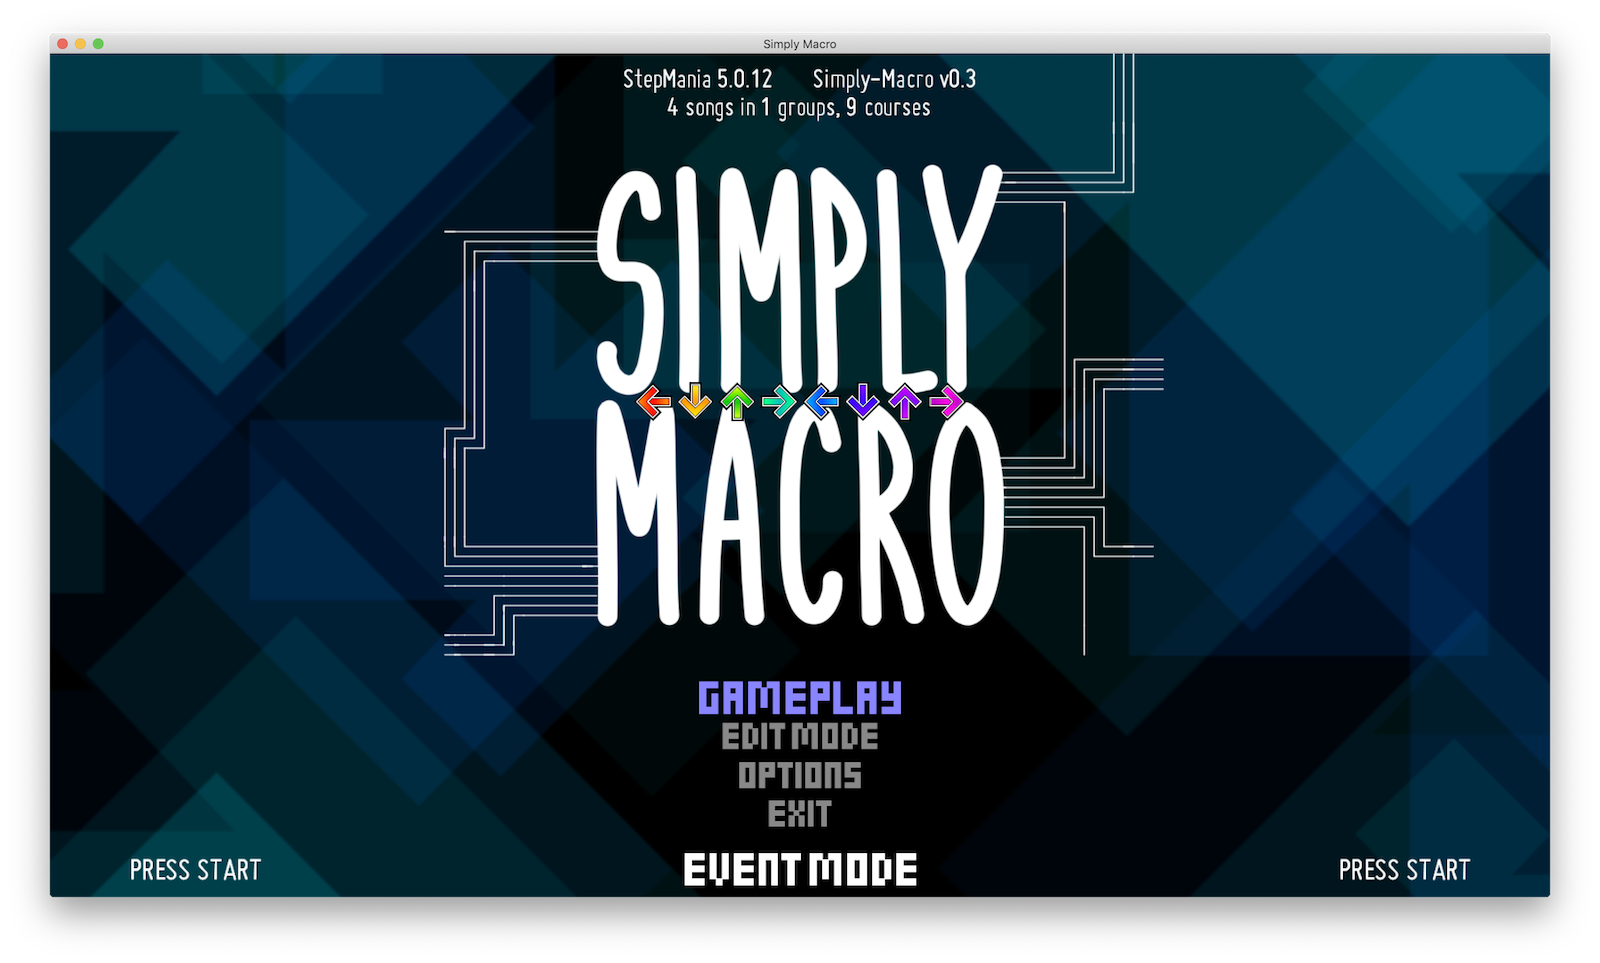
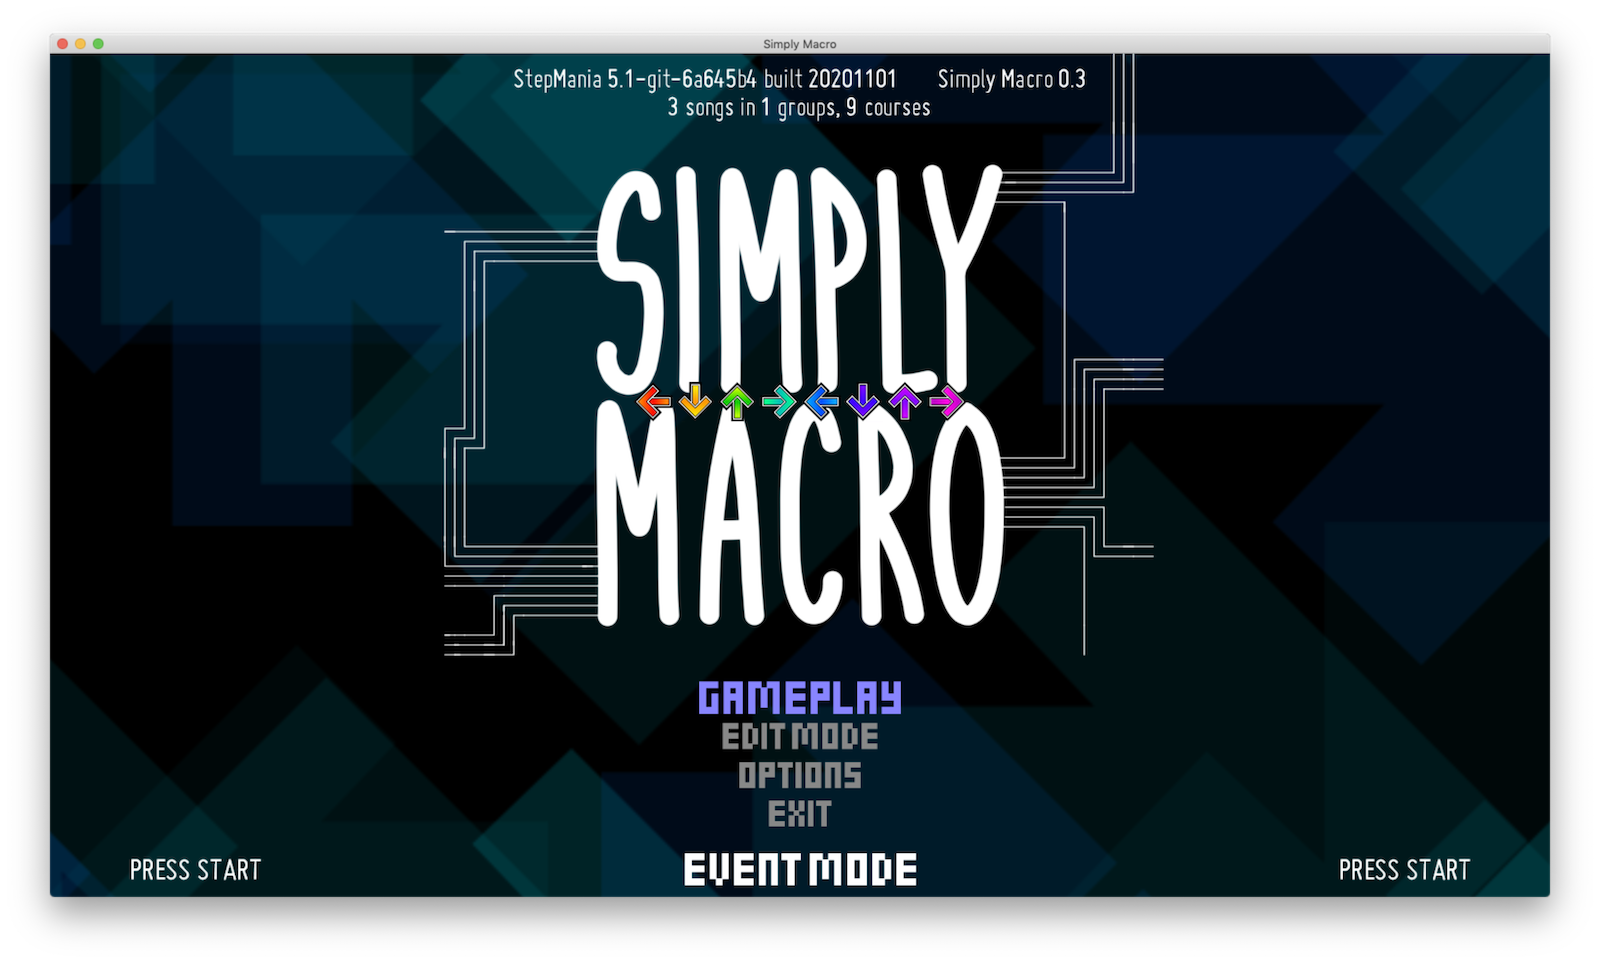
Added option for turning Decents/WayOffs on/off by default; cleanup

diff --git a/README.md b/README.md
@@ -22,14 +22,14 @@ Step artists/simfile creators sync songs differently. Many sync to a null offset
 2. Install Simply Macro by dropping the folder in [your SM folder]/Themes/
 3. Edit Simply-Macro/Other/ITG-Sync-Groups.txt to include song groups that are ITG-synced, while excluding any song groups that are instead synced to a null offset
 4. Switch the game's active theme to Simply Macro
-5. Enable the "DDR Offset" setting in "Simply Macro Options" in-game if that's what you're here for.
+5. Enable the "DDR Offset" setting in "Simply Macro Options" in-game if that's what you're here for
 5. ???
 6. Profit!
 
 ## Implemented features/changes
 - [x] Different global offsets for "ITG" groups vs. non-"ITG" groups
 - [x] DDR Offset is adjustable in-game (and can also be disabled) in "Simply Macro Options"
-- [x] Decents and WayOffs are disabled by default in ITG modes
+- [x] Enable/disable Decents and WayOffs by default (disabled by default)
 - [x] [MochitheDog's DDR game mode](https://github.com/MochitheDog/Simply-Love-SM5) for Simply Love
 - [x] Enable/disable showing judgments under, rather than above, arrows
 - [x] Enable/disable the GrooveStats QR code pane shown on the evaluation screen
@@ -59,7 +59,7 @@ You may thus want to make note of any AutoSync-suggested change to manually edit
 All of this can be a bit tricky, so I highly recommend figuring out what your DDROffset (i.e., GlobalOffsetSeconds for a null offset-synced song) should be before using this theme for the first time. And if you want to switch back to using vanilla Simply Love or another theme as your "daily driver," make sure that your GlobalOffsetSeconds is properly set when you do so.
 
 ## Why did you disable Decents and WayOffs by default?
-In the past several years of playing DDR A, I've gotten used to ghost-stepping in a way that often triggers Decents and WayOffs on ITG, so I now almost always turn off "The Boys." I find the game much more enjoyable without them. Vanilla Simply Love resets the relevant setting every time you start a new game session, and I would prefer not having to do that. Thus, I've disabled them by default.
+In the past several years of playing DDR A, I've gotten used to ghost-stepping in a way that often triggers Decents and WayOffs on ITG, so I now almost always turn off "The Boys." I find the game much more enjoyable without them. Vanilla Simply Love resets the relevant setting every time you start a new game session, and I would prefer not having to do that. Thus, I've disabled them by default, although I've now also included an option to re-enable them by default.
 
 ## What do you get with DDR game mode?
 - Selectable DDR mode at game start enables DDR-approximate timing windows as follows (in seconds):
